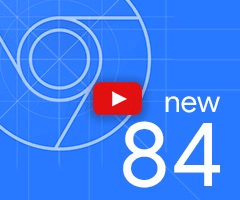
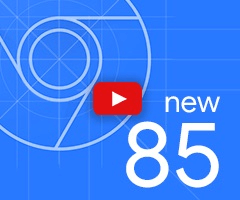
Update What's New UI for Chrome 85
Bug: 986998

Changed region(s): [[0.4958, 0.6, 0.9333, 0.96]]

diff --git a/front_end/help/ReleaseNoteText.js b/front_end/help/ReleaseNoteText.js
@@ -17,6 +17,70 @@ const commandMenuShortcut = Host.Platform.isMac() ? 'Command+Shift+P' : 'Control
 /** @type {!Array<!ReleaseNote>} */
 export const releaseNoteText = [
   {
+    version: 27,
+    header: 'Highlights from the Chrome 85 update',
+    highlights: [
+      {
+        title: 'Style editing for CSS-in-JS frameworks',
+        subtitle: 'Styles created with CSS Object Model APIs and Constructible Stylesheets are now editable.',
+        link: 'https://developers.google.com/web/updates/2020/06/devtools#css-in-js',
+      },
+      {
+        title: 'Lighthouse 6',
+        subtitle:
+            'New metrics that align with Google\'s Core Web Vitals, a new weighting of the Performance score, and more.',
+        link: 'https://developers.google.com/web/updates/2020/06/devtools#lighthouse',
+      },
+      {
+        title: 'First Meaningful Paint (FMP) deprecation',
+        subtitle: 'FMP has been removed from the Performance panel and deprecated in Lighthouse 6.',
+        link: 'https://developers.google.com/web/updates/2020/06/devtools#fmp-deprecation',
+      },
+      {
+        title: 'Support for new JavaScript features',
+        subtitle: 'Syntax support for optional chaining, private fields, and the nullish coalescing operator.',
+        link: 'https://developers.google.com/web/updates/2020/06/devtools#javascript',
+      },
+      {
+        title: 'New app shortcut warnings in the Manifest pane',
+        subtitle: 'Warnings for when an app icon image is too small or not the correct shape.',
+        link: 'https://developers.google.com/web/updates/2020/06/devtools#app-shortcut-warnings',
+      },
+      {
+        title: 'Service worker respondWith events in the Timing tab',
+        subtitle: 'More visibility into how long a service worker takes to respond to a fetch event.',
+        link: 'https://developers.google.com/web/updates/2020/06/devtools#timing-tab',
+      },
+      {
+        title: 'Consistent display of the Computed pane',
+        subtitle: 'The pane now always displays as a separate pane, rather than collapsing into the Styles pane.',
+        link: 'https://developers.google.com/web/updates/2020/06/devtools#computed-pane',
+      },
+      {
+        title: 'Bytecode offsets for WebAssembly files',
+        subtitle: 'Bytecode offsets are now displayed next to Wasm disassemly rather than line numbers.',
+        link: 'https://developers.google.com/web/updates/2020/06/devtools#wasm',
+      },
+      {
+        title: 'Line-wise copy and cut in the Sources Panel',
+        subtitle: 'Cut or copy an entire line of code.',
+        link: 'https://developers.google.com/web/updates/2020/06/devtools#sources-panel',
+      },
+      {
+        title: 'New breakpoint icons',
+        subtitle: 'The new circular icons make the DevTools UI more consistent with other GUI debugging tools.',
+        link: 'https://developers.google.com/web/updates/2020/06/devtools#breakpoint-icons',
+      },
+      {
+        title: 'Console Settings updates',
+        subtitle:
+            'The "Group similar" option now applies to duplicate messages and the "Selected context only" option is now persisted.',
+        link: 'https://developers.google.com/web/updates/2020/06/devtools#console-settings',
+      },
+    ],
+    link: 'https://developers.google.com/web/updates/2020/06/devtools',
+  },
+  {
     version: 26,
     header: 'Highlights from the Chrome 84 update',
     highlights: [
